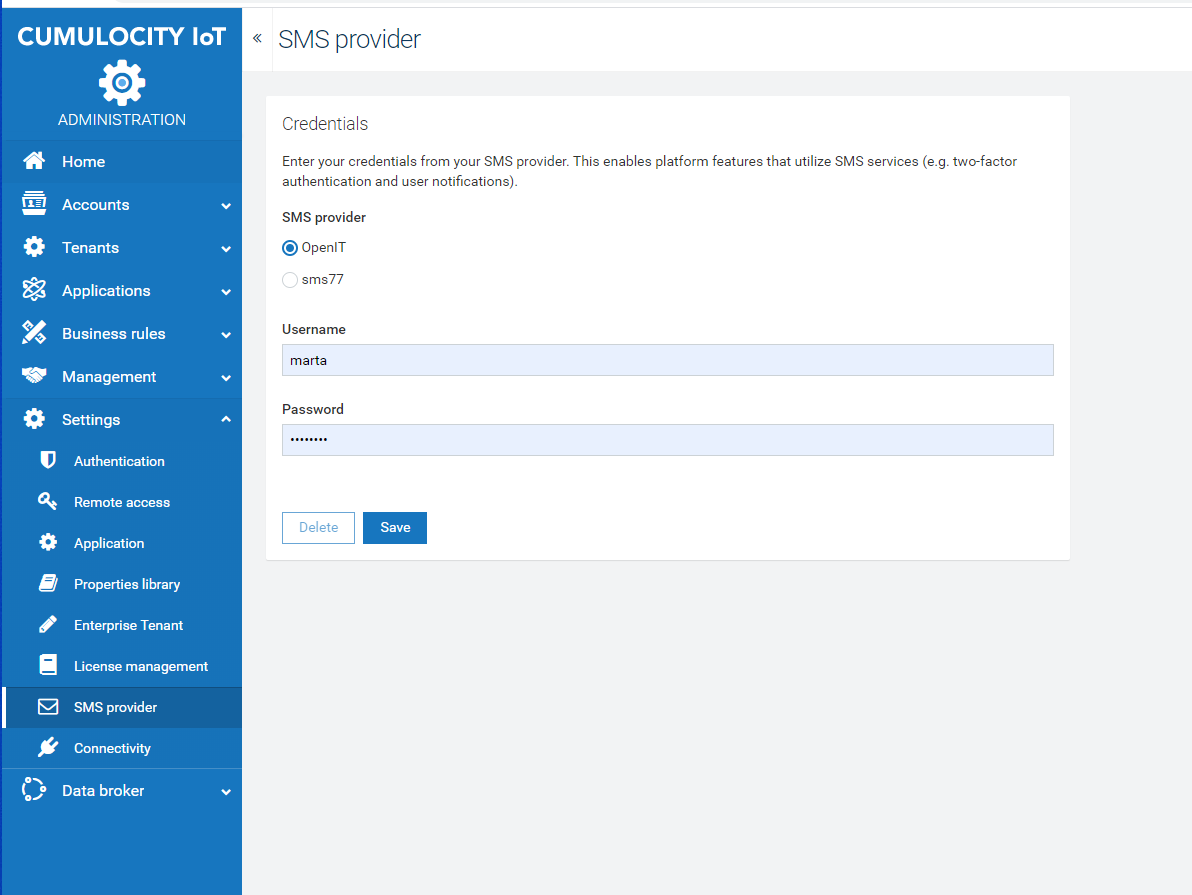
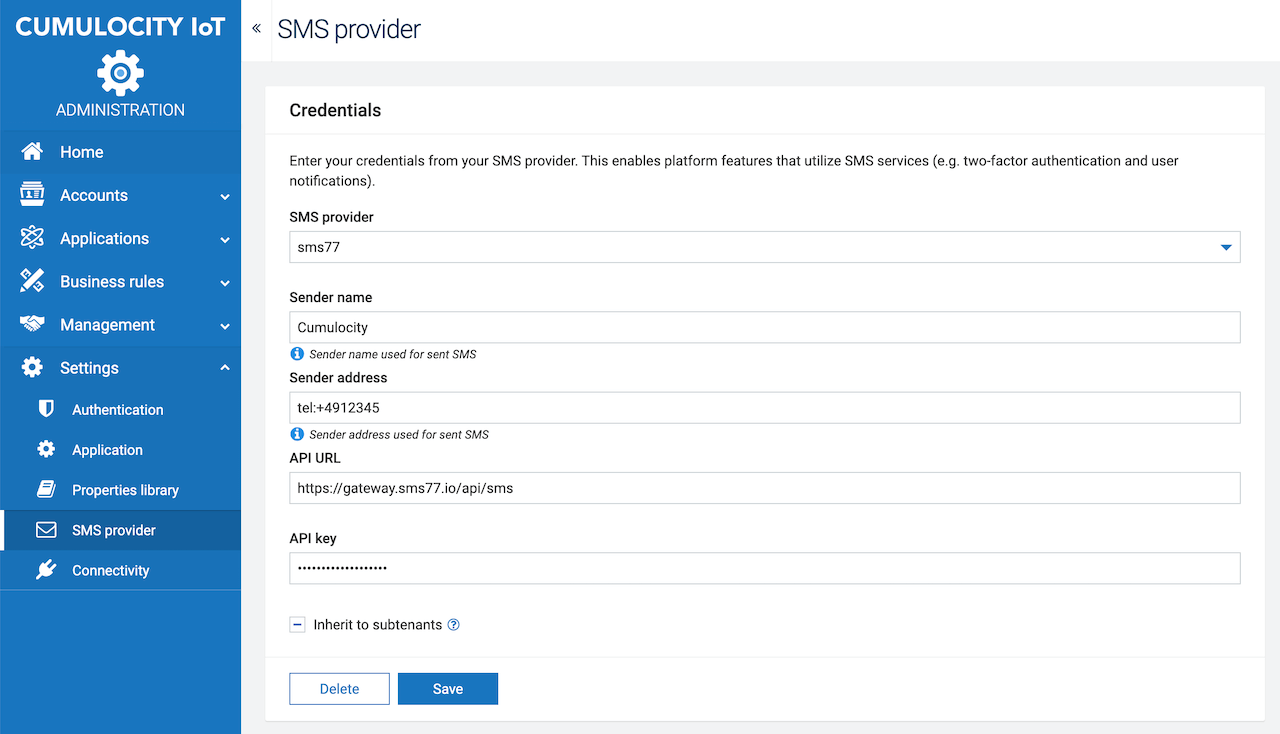
[MTM-37546] Update user guide for SMS provider settings

diff --git a/content/users-guide/administration-bundle/changing-settings.md b/content/users-guide/administration-bundle/changing-settings.md
@@ -10,7 +10,7 @@ From the **Settings** menu, administrators can manage various settings for the a
 - Change the [application settings](#default-app).
 - Manage the [properties library](#properties).
 - Configure system-wide [configuration properties](#config-platform) in Cumulocity IoT.
-- Provide [SMS provider credentials](#openIT-credentials).
+- Provide [SMS provider credentials](#sms-provider).
 - Manage the [connectivity settings](#connectivity).
 
 
@@ -317,7 +317,7 @@ With custom properties, you can extend the data model of Cumulocity IoT built-in
 1. Click on the name of a property in the list to open it.
 2. Click **Remove** to delete the property.
 
-### <a name="openIT-credentials"></a>Providing SMS provider credentials
+### <a name="sms-provider"></a>Providing SMS provider credentials
 
 SMS are used throughout the platform for various features like [two-factor authentication](/users-guide/administration#tfa) and user notifications, i.e. on alarms.
 
@@ -329,16 +329,13 @@ By providing your credentials you enable platform features that utilize SMS serv
 
 	![Select SMS provider](/images/users-guide/Administration/admin-settings-sms-provider.png)
 
-2. In the **SMS provider** page, select either OpenIT or [sms77](https://www.sms77.io/en/) as SMS provider.
+2. In the **SMS provider** page, select one of the available SMS providers from the **SMS provider** dropdown field. You can start typing to filter items and more easily find your preferred provider.
 
-3. Depending on the selected provider, enter the relevant credentials:
-
-	 * For OpenIT, your OpenIT username and password.
-	 * For sms77, your API key to access sms77 (to be found in your sms77 login under Settings > HTTP API).
+3. Depending on the selected provider, enter the relevant credentials. Different providers require different configuration and credentials. The form generated for the respective provider will display the required properties and available options.
 
 4. Click **Save** to save your settings.
 
->**Info:** OpenIT does not serve new customers anymore and is in the process of shutting down their SMS provider business. We therefore recommend you to select sms77 as SMS provider.
+>**Info:** OpenIT does not serve new customers anymore and is in the process of shutting down their SMS provider business. We therefore recommend you to select one of the other SMS providers.
 
 
 ### <a name="config-platform"></a>Configuration settings
